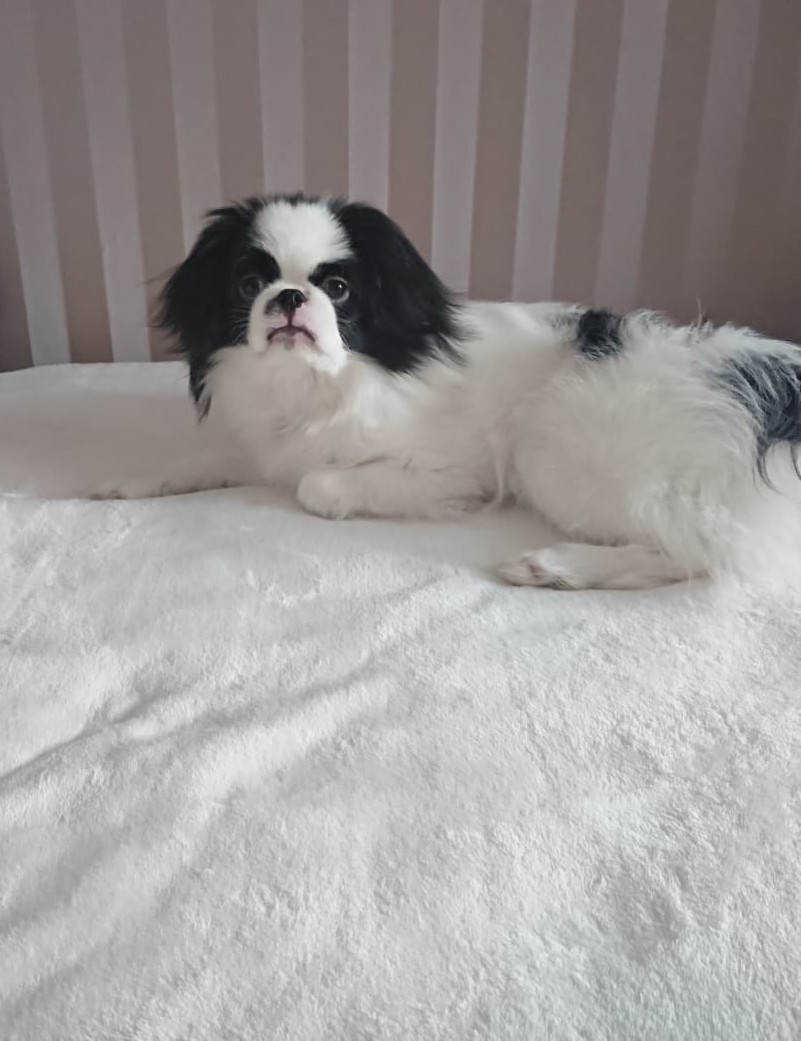
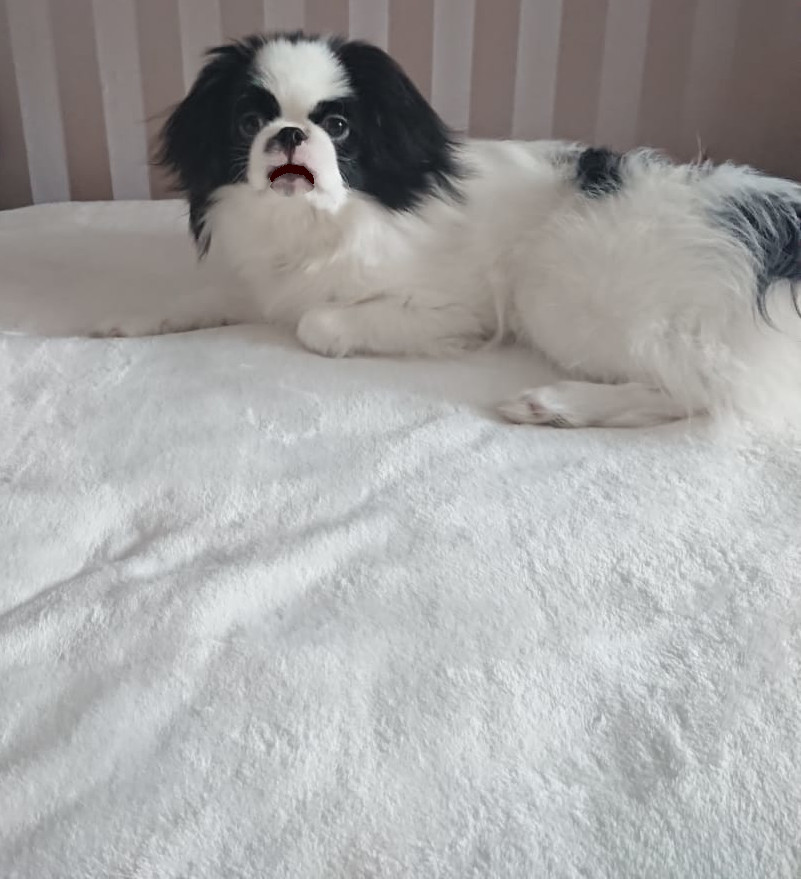
fix animation for desktop

diff --git a/src/js/field.js b/src/js/field.js
@@ -2,7 +2,7 @@ import {colors, getCor, getPosClass, isNear, replacePosClass, getRandomInt, Posi
 import {findLine} from "./line.js";
 
 export let generateField, addTile, destroy, onClick, findFigures;
-
+let stepSpeed = 100;
 findFigures = findLine;
 generateField = () => {
     let gameField = $('#gameField');
@@ -38,11 +38,18 @@ onClick = () => {
         } else {
             console.log("Неправильный ход, можно выбирать только соседние круги!");
         }
+        let figures = findFigures();
+        if(figures.length){
+            figures.forEach(figure => destroy(figure.points));
+            populate();
+        } else {
+            console.log("Неправильный ход, не собрано ни одной фигуры!");
+            replacePosClass(target, newPos);
+            replacePosClass(prevTile, prevPos);
+        }
         prevTile.style.transform = "scale(1)";
         prevTile = null;
-        let figures = findFigures();
-        figures.forEach(figure => destroy(figure.points));
-        populate();
+
     } else {
         prevTile = target;
         prevTile.style.transform = "scale(0.6)";
@@ -53,12 +60,20 @@ onClick = () => {
 destroy = (coordinateList) => {
     coordinateList.forEach(coordinate => {
         let tile = $(`.pos_x${coordinate.x}_y${coordinate.y}`);
-
+        let isMobile = window.matchMedia("only screen and (max-width: 768px)").matches;
+        let mouth;
+        if(isMobile){
+            mouth = {left: "10vw", top:"-32vh"}
+        } else {
+            mouth = {left: "4.7vw", top: "-33vh"}
+        }
         tile.animate({
-                left: "10vw",
-                top: "-32vh",
+                left: mouth.left,
+                top: mouth.top,
             }, "slow",
-            () => tile.remove());
+            () => {
+                tile.remove();
+            });
     });
 };
 
@@ -70,17 +85,17 @@ let populate = () => {
             setTimeout(() => {
                 holes.forEach(hole => shiftDown(hole));
                 populate();
-            }, 250);
+            }, stepSpeed);
         } else {
             let figures = findFigures();
             if (figures.length) {
                 setTimeout(() => {
                     figures.forEach(figure => destroy(figure.points));
                     populate();
-                }, 250);
+                }, stepSpeed);
             }
         }
-    }, 250);
+    }, stepSpeed);
 };
 
 let shiftDown = (coordinate) => {

diff --git a/src/index.html b/src/index.html
@@ -9,8 +9,12 @@
 </head>
 <body>
 <div class="container">
-    <img src="img/Garry.jpg" alt="Гарри" id="Garry">
+    <div id="cf">
+        <img src="img/Garry.jpg" class="banner" alt="Гарри" id="Garry">
+<!--        <img src="img/Garry2.jpg" alt="Гарри2" id="Garry2">-->
+    </div>
     <div id="gameField"></div>
+<!--    TODO: Выстави упонинание создателя иконок-->
 <!--    <div>Icons made by <a href="https://www.flaticon.com/authors/adib-sulthon" title="Adib Sulthon">Adib Sulthon</a> from <a-->
 <!--            href="https://www.flaticon.com/" title="Flaticon">www.flaticon.com</a></div>-->
 </div>

diff --git a/src/js/init.js b/src/js/init.js
@@ -1,5 +1,6 @@
 import {generateField, onClick, findFigures} from './field.js';
-// TODO: Выбери фотку Гарри. Сделай ей анимацию увеличения живота.
+// TODO: Сделай Гарри анимацию открытия рта.
+// TODO: Сделай счёт очков. За ка ждую фигуру
 // TODO: Нарисуй на бумаге Кеншина и Сано. Каждая фигура на поле - это один из ударов.
 //  Удары отбиваются блоками, как камень-ножницы-бумага
 

diff --git a/src/style.css b/src/style.css
@@ -39,10 +39,20 @@ h1 {
     }
 }
 
-#Garry {
-    position: relative;
+#cf {
+    position:relative;
+    height:100vh;
+    width:100%;
+}
+
+#cf img {
+    height:100vh;
+    width:auto;
+}
+@media screen and (max-width: 768px) {
+    #cf img {
     width: 100%;
-    height: 100vh;
+    }
 }
 
 .tile {
